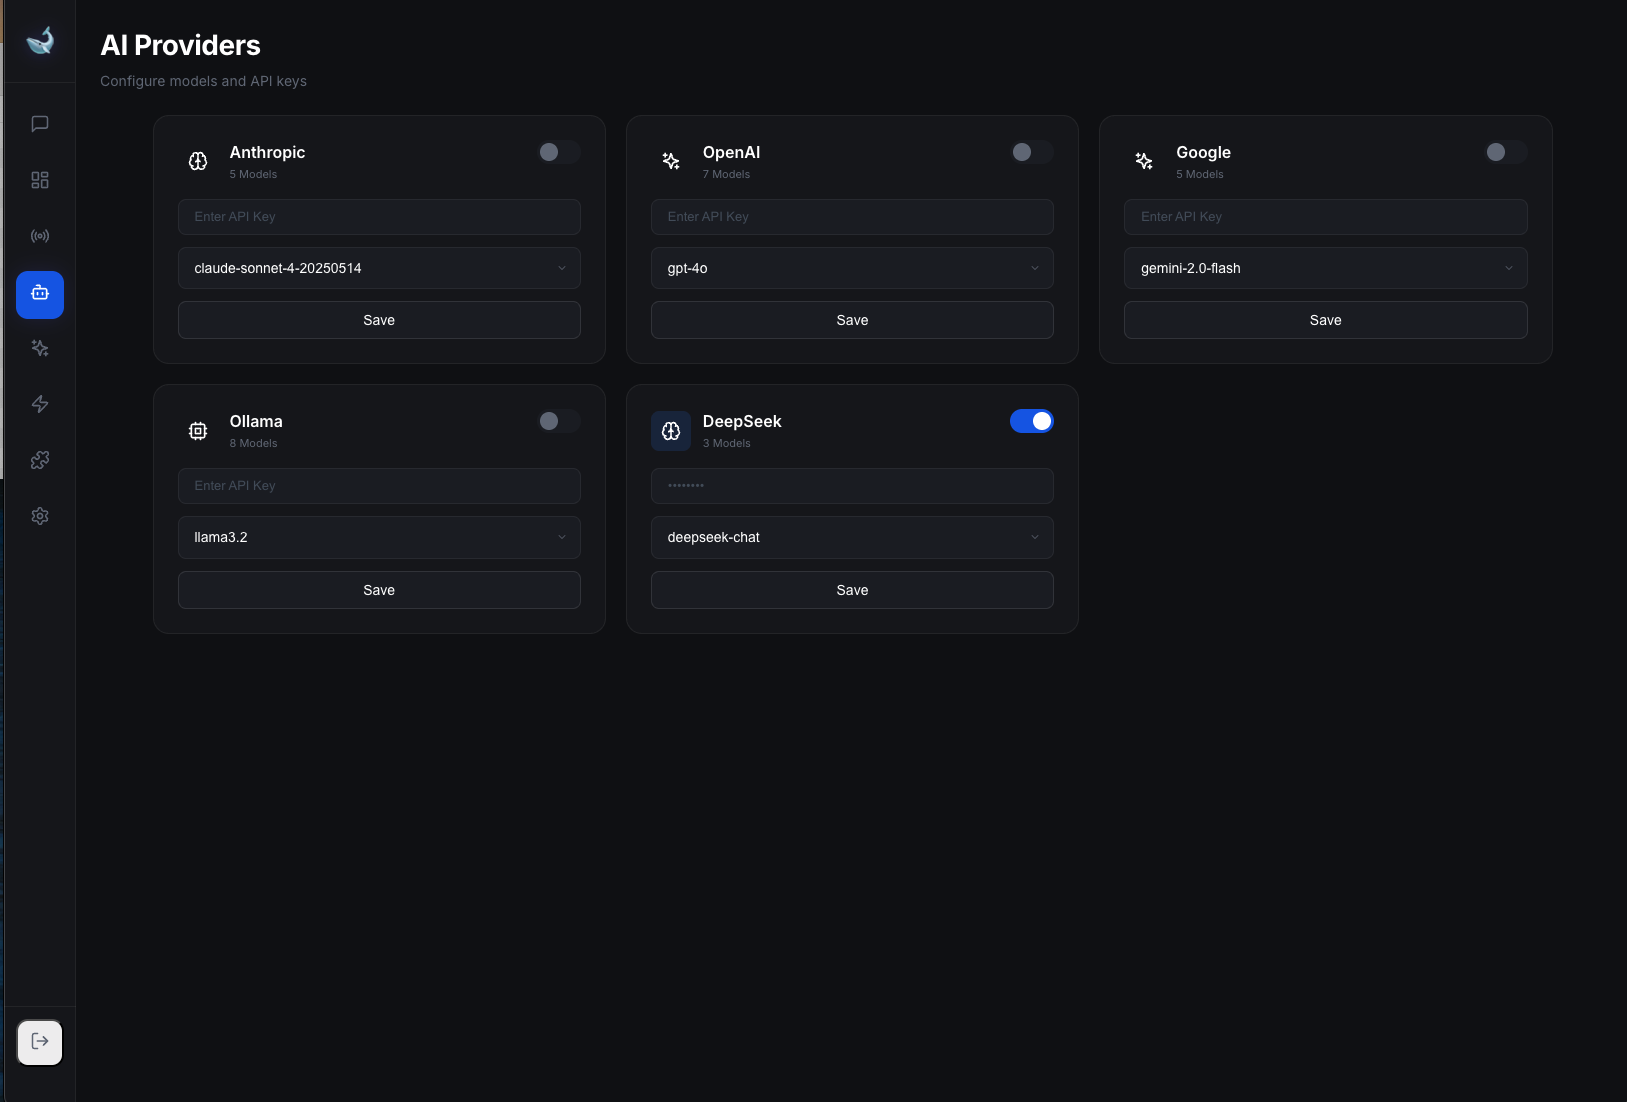
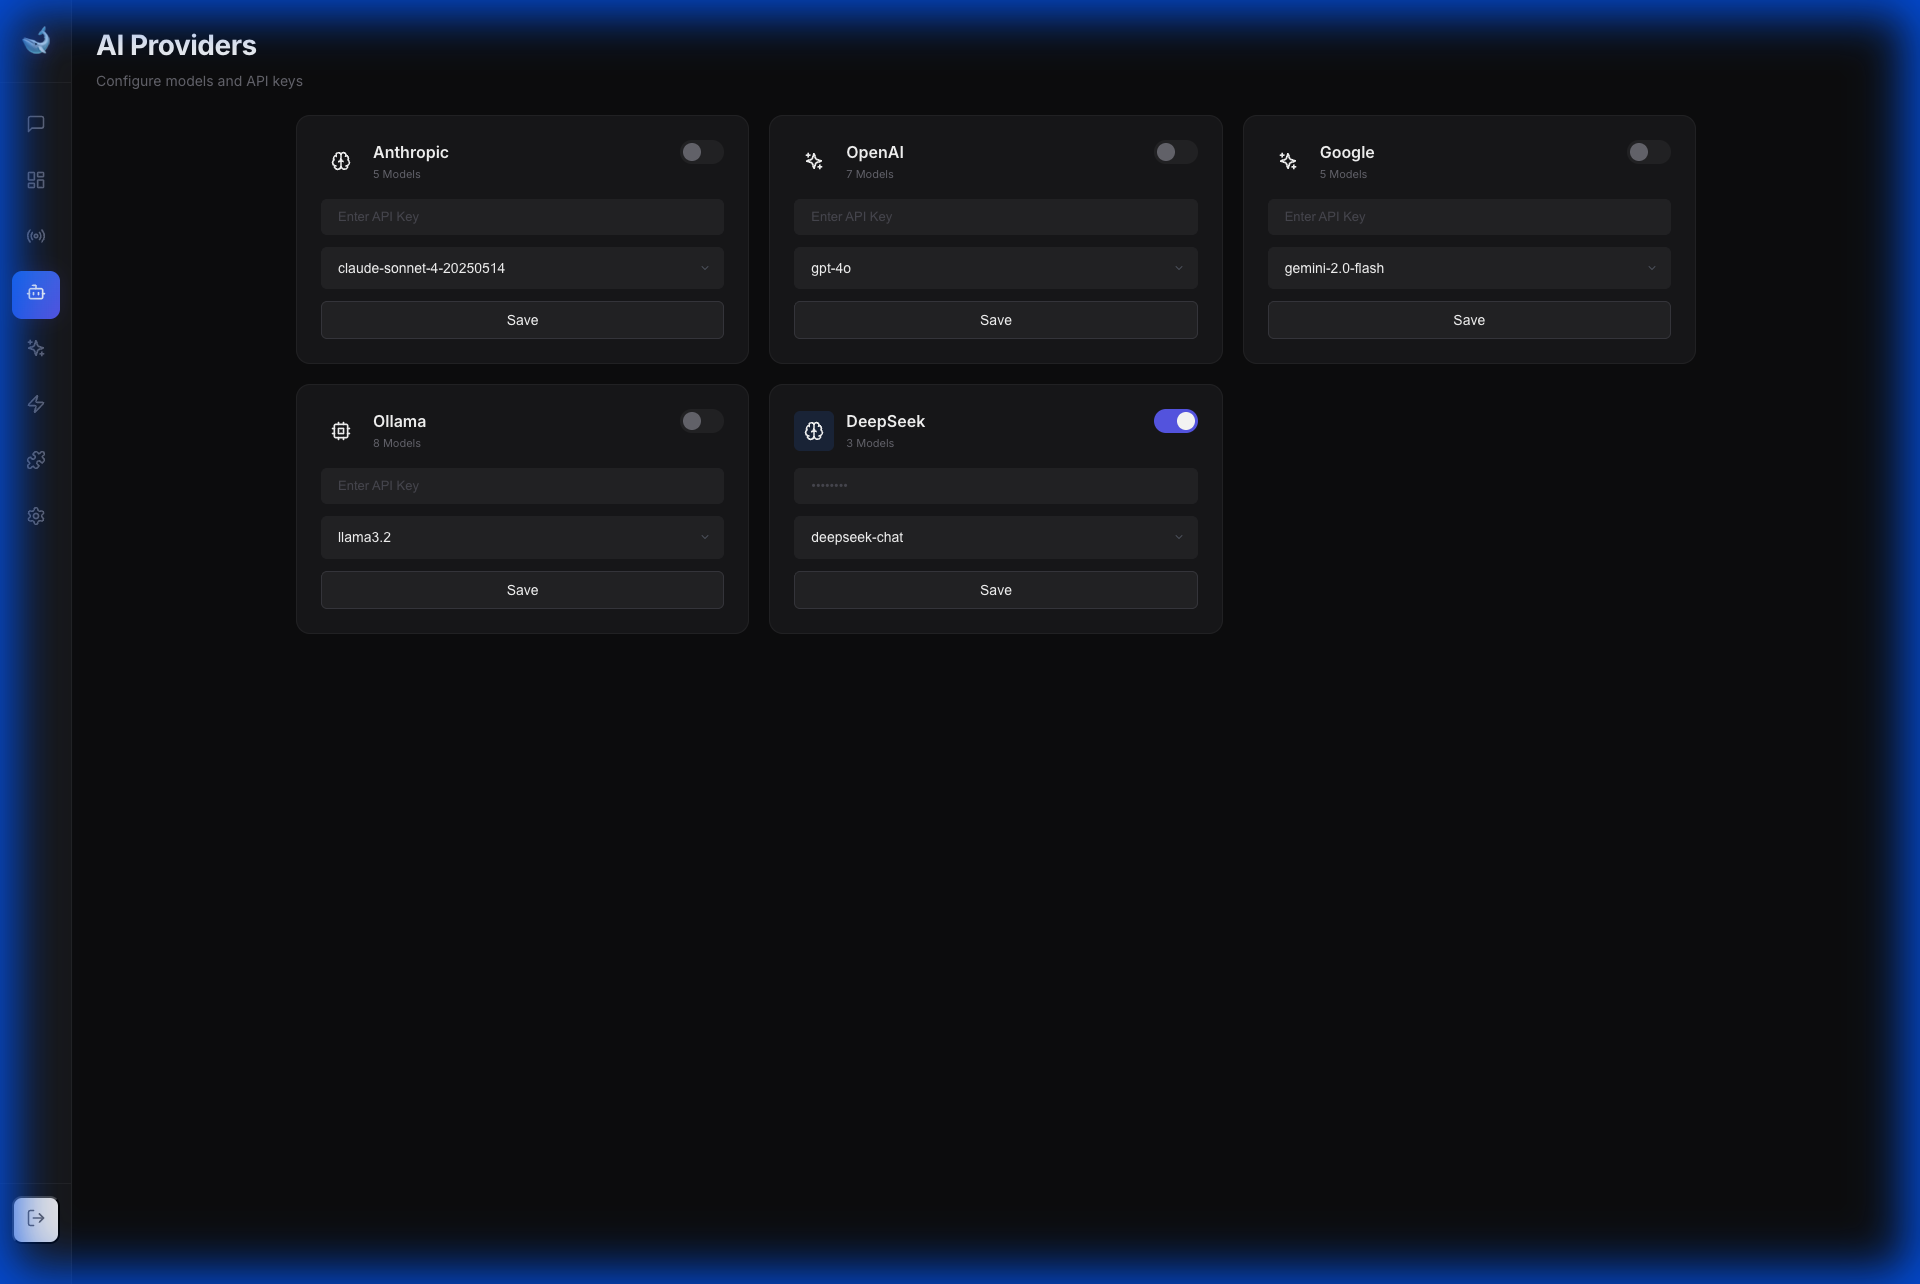
docs: Update existing images and add new dashboard screenshots to README.md.

diff --git a/README.md b/README.md
@@ -360,6 +360,32 @@ Password: admin
 - Password change in Settings
 - Logout button in sidebar
 
+### Dashboard Screenshots
+
+**Chat Interface** — Talk to the AI with full tool support:
+
+<p align="center">
+  <img src="images/dashboard-chat.png" alt="Dashboard Chat" width="800" />
+</p>
+
+**Channels** — Connect WhatsApp, Telegram, Discord, and iMessage:
+
+<p align="center">
+  <img src="images/dashboard-channels.png" alt="Dashboard Channels" width="800" />
+</p>
+
+**AI Providers** — Configure Claude, GPT-4, Gemini, DeepSeek, and Ollama:
+
+<p align="center">
+  <img src="images/dashboard-providers.png" alt="Dashboard Providers" width="800" />
+</p>
+
+**Settings** — User management, default model, and browser automation:
+
+<p align="center">
+  <img src="images/dashboard-settings.png" alt="Dashboard Settings" width="800" />
+</p>
+
 ---
 
 ## Connecting Channels
